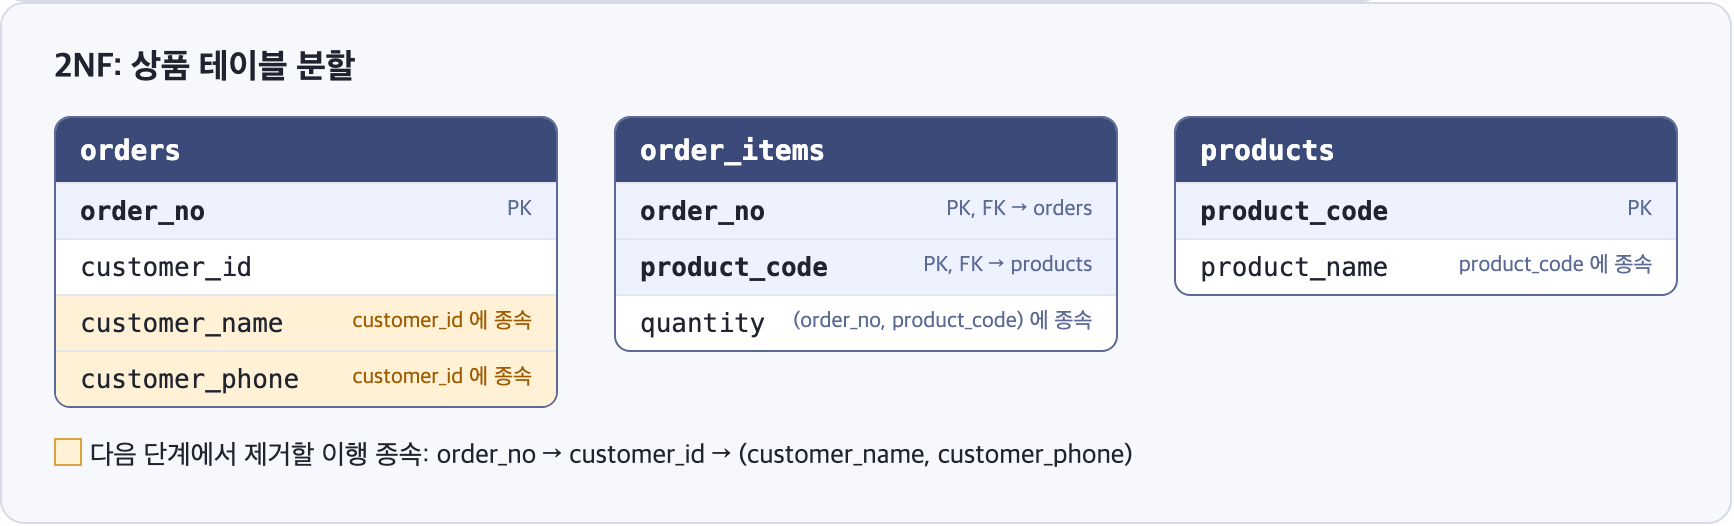
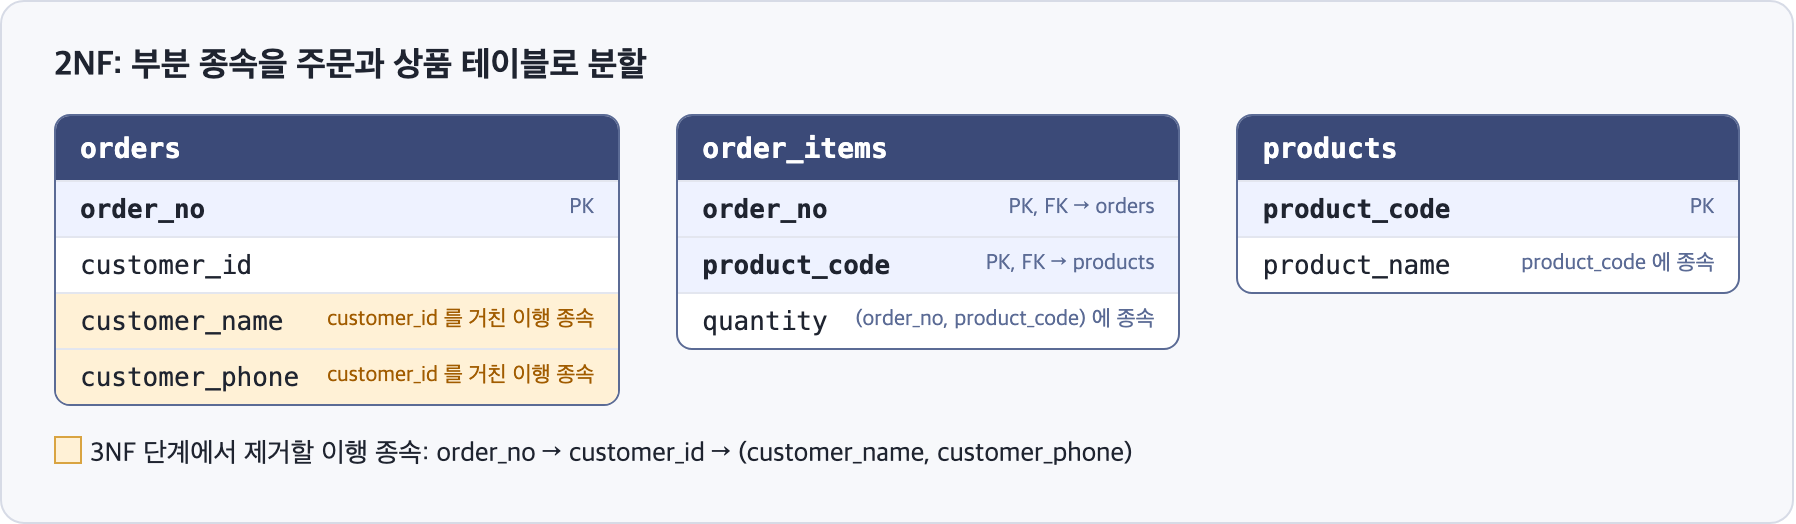
fix(blog): 리뷰 반영 — 정규화 단계 구성과 정의 정정 (#57)
- 1NF는 원자값 조건으로 분할 없이 order_flat까지, 2NF에서 부분 종속 두 개를 함께 분할하도록 구성 변경 (nf1 스키마·이미지 삭제)
- 2NF·3NF·이행 종속·BCNF 정의와 무손실 분해 설명 정정, JOIN 복원에 행 수 비교 추가
- 다이어그램 수정과 예제 재실행 결과 반영

diff --git a/playground/db-normalization/README.md b/playground/db-normalization/README.md
@@ -1,7 +1,7 @@
 # db-normalization
 
 블로그 포스트 "DB 정규화와 함수 종속: 1NF부터 3NF까지"의 예제입니다.
-주문, 주문상품, 상품, 고객 데이터를 한 테이블에서 시작해 1NF, 2NF, 3NF 순서로 분할하고
+주문, 주문상품, 상품, 고객 데이터를 한 테이블에서 시작해 1NF(셀을 행으로 푼 상태), 2NF, 3NF 순서로 분할하고
 PostgreSQL 18에서 실제로 실행해 결과를 확인합니다.
 
 ## 준비
@@ -21,10 +21,10 @@ scripts/down.sh      # 컨테이너 삭제
 
 | 파일 | 내용 |
 | --- | --- |
-| `sql/01_flat_table.sql` | 정규화 전 테이블 `order_flat` 생성과 데이터 입력 |
+| `sql/01_flat_table.sql` | 1NF 테이블 `order_flat` 생성과 데이터 입력 |
 | `sql/02_anomalies.sql` | 갱신, 삽입, 삭제 이상 실행 |
 | `sql/03_dependency_check.sql` | `GROUP BY ... HAVING count(DISTINCT ...) > 1` 로 함수 종속이 깨졌는지 확인 |
-| `sql/04_normalize.sql` | 스키마 `nf1`, `nf2`, `nf3` 에 단계별로 테이블 분할 |
+| `sql/04_normalize.sql` | 스키마 `nf2`, `nf3` 에 단계별로 테이블 분할 |
 | `sql/05_verify_join.sql` | JOIN 으로 복원한 결과와 원본을 `EXCEPT` 로 비교 |
 | `sql/06_after_normalization.sql` | 3NF 구조에서 상품명 변경, 상품 등록, 삭제, FK 오류 확인 |
 | `sql/07_show_tables.sql` | 단계별 테이블 내용 출력 |
